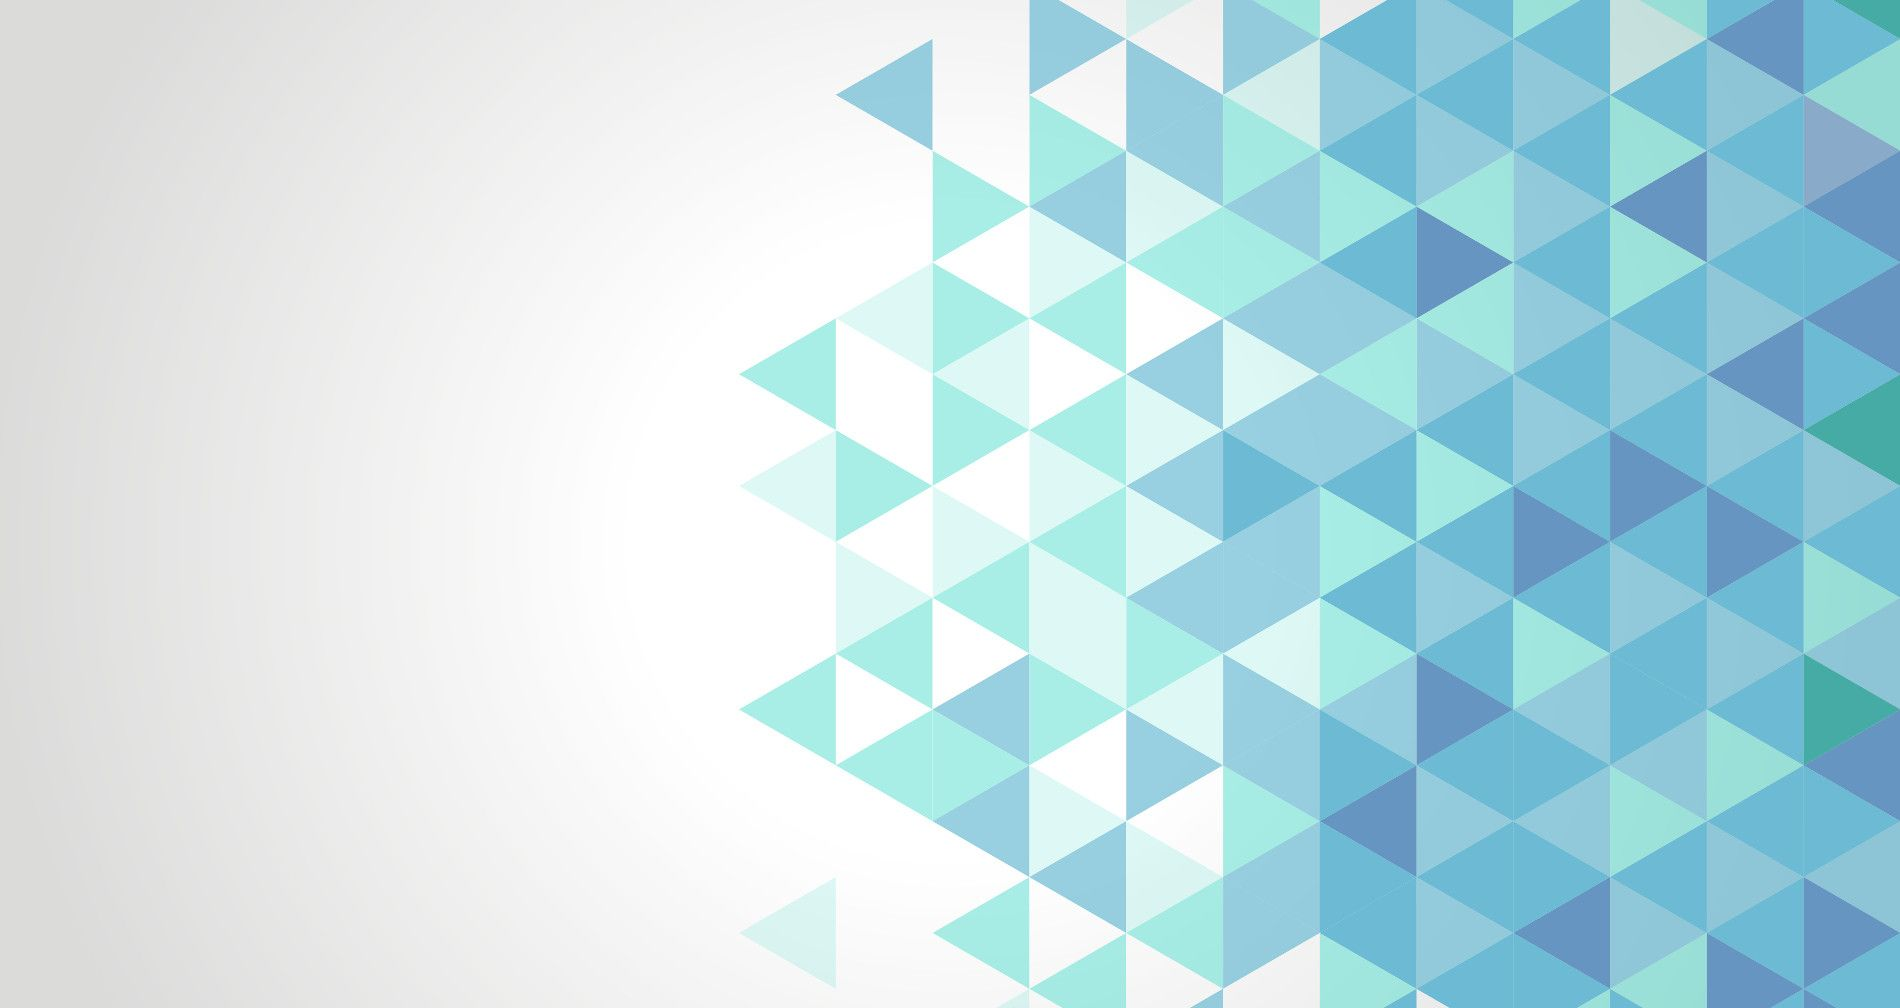
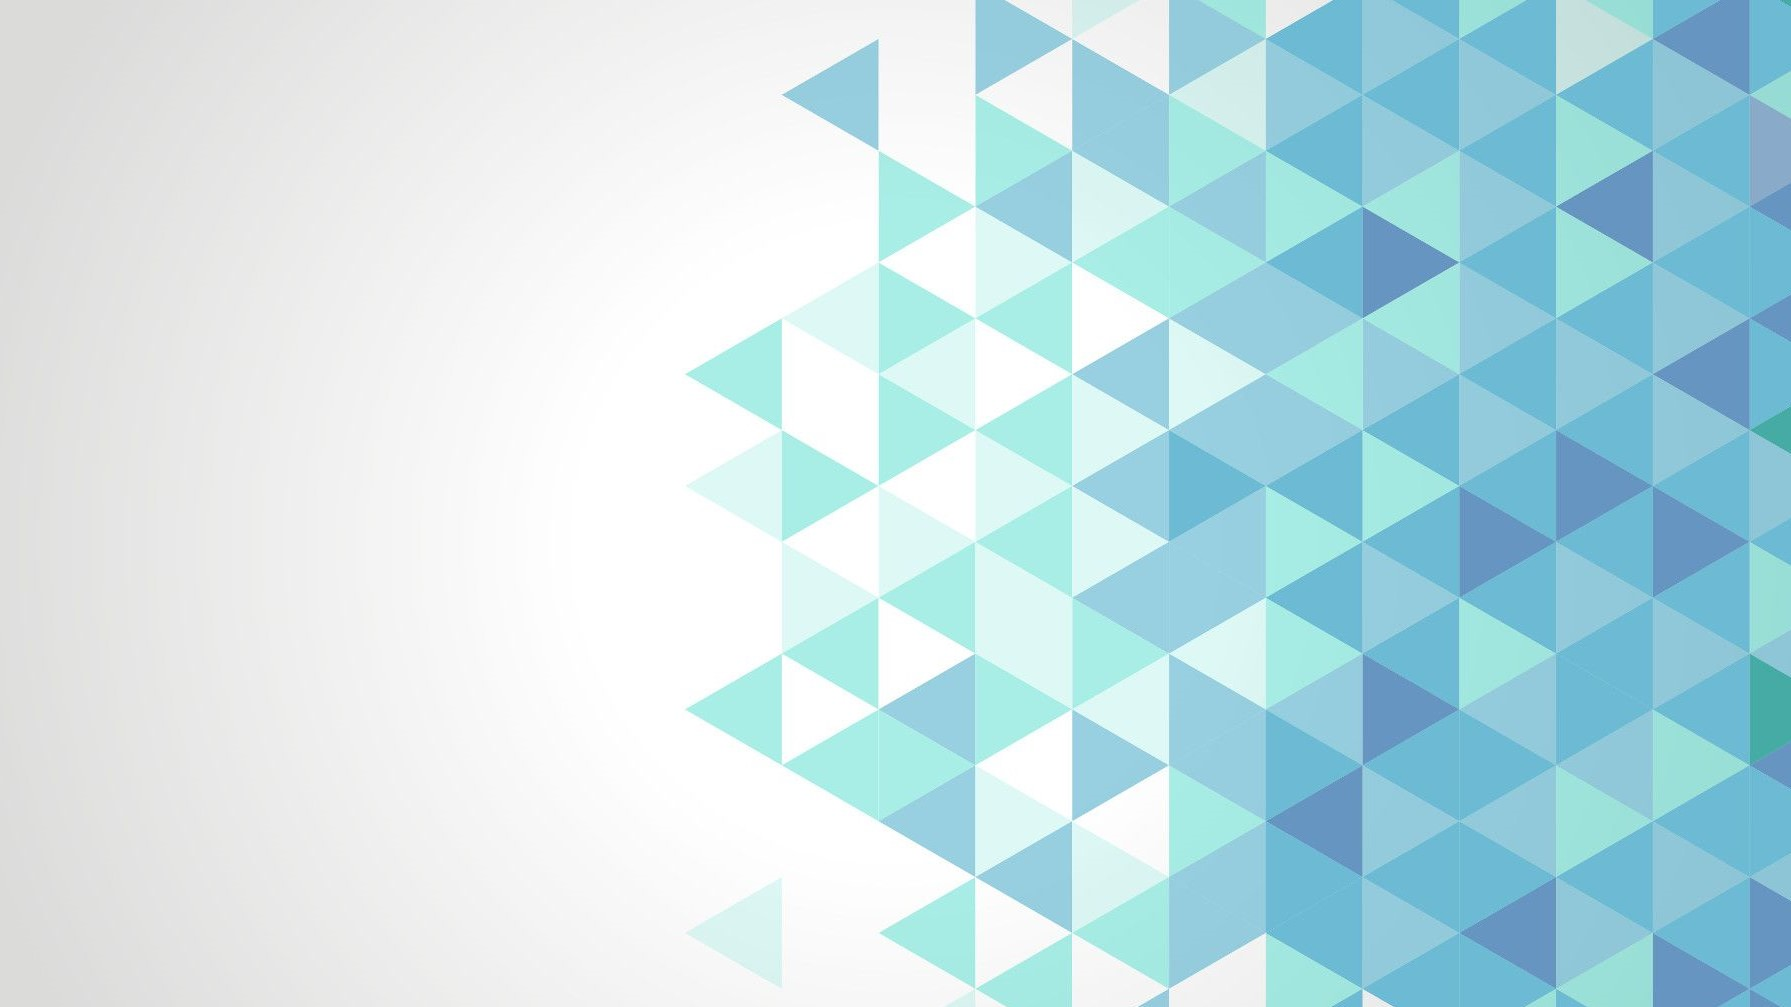
style

diff --git a/index.html b/index.html
@@ -1,28 +1,33 @@
 <!DOCTYPE html>
 <html>
 <head>
-    <meta charset="utf-8" />
-    <title>Action Sports Gif's</title>
-    <meta name="viewport" content="width=device-width, initial-scale=1">
+    <meta charset="UTF-8">
+    <meta name="viewport" content="width=device-width, initial-scale=1.0">
+    <meta http-equiv="X-UA-Compatible" content="ie=edge">
+    <link rel="stylesheet" type="text/css" href="assets/css/reset.css">
     <link rel="stylesheet" href="https://maxcdn.bootstrapcdn.com/bootstrap/3.3.7/css/bootstrap.min.css" integrity="sha384-BVYiiSIFeK1dGmJRAkycuHAHRg32OmUcww7on3RYdg4Va+PmSTsz/K68vbdEjh4u" crossorigin="anonymous">
     <link rel="stylesheet" href="https://maxcdn.bootstrapcdn.com/bootstrap/3.3.7/css/bootstrap-theme.min.css" integrity="sha384-rHyoN1iRsVXV4nD0JutlnGaslCJuC7uwjduW9SVrLvRYooPp2bWYgmgJQIXwl/Sp" crossorigin="anonymous">
-    <link rel="stylesheet" type="text/css" media="screen" href="assets/css/style.css" />
+    <link rel="stylesheet" type="text/css" href="assets/css/style.css">
+    <script src="https://ajax.googleapis.com/ajax/libs/jquery/3.2.1/jquery.min.js"></script>
+    <script src="https://maxcdn.bootstrapcdn.com/bootstrap/3.3.7/js/bootstrap.min.js" integrity="sha384-Tc5IQib027qvyjSMfHjOMaLkfuWVxZxUPnCJA7l2mCWNIpG9mGCD8wGNIcPD7Txa" crossorigin="anonymous"></script>
 </head>
 <body img src="assets/images/backgroundimg.jpg">
-    <div id ="buttons">
+    <div id="game">
+        <div id ="buttons">
 
-    </div>
+        </div> 
 
-    <form id="asp-form">
+        <form id="asp-form">
         <label for="asp-input">Add your own Action Sports Gif.</label>
         <input type="text" id="asp-input">
 
         <button class="answer-button btn btn-info btn-lg" id="addAspGif" type="submit" value="Submit">Add Gif</button>
-    </form>
+        </form>
 
 
-    <div id ="actionSports">
+        <div id ="actionSports">
         </div>
+    </div>
 
 <script src="https://code.jquery.com/jquery-3.3.1.min.js" integrity="sha256-FgpCb/KJQlLNfOu91ta32o/NMZxltwRo8QtmkMRdAu8=" crossorigin="anonymous"></script> 
 <script src="assets/javascript/app.js"></script>

diff --git a/assets/css/reset.css b/assets/css/reset.css
@@ -1,0 +1,48 @@
+/* http://meyerweb.com/eric/tools/css/reset/ 
+   v2.0 | 20110126
+   License: none (public domain)
+*/
+
+html, body, div, span, applet, object, iframe,
+h1, h2, h3, h4, h5, h6, p, blockquote, pre,
+a, abbr, acronym, address, big, cite, code,
+del, dfn, em, img, ins, kbd, q, s, samp,
+small, strike, strong, sub, sup, tt, var,
+b, u, i, center,
+dl, dt, dd, ol, ul, li,
+fieldset, form, label, legend,
+table, caption, tbody, tfoot, thead, tr, th, td,
+article, aside, canvas, details, embed, 
+figure, figcaption, footer, header, hgroup, 
+menu, nav, output, ruby, section, summary,
+time, mark, audio, video {
+	margin: 0;
+	padding: 0;
+	border: 0;
+	font-size: 100%;
+	font: inherit;
+	vertical-align: baseline;
+}
+/* HTML5 display-role reset for older browsers */
+article, aside, details, figcaption, figure, 
+footer, header, hgroup, menu, nav, section {
+	display: block;
+}
+body {
+	line-height: 1;
+}
+ol, ul {
+	list-style: none;
+}
+blockquote, q {
+	quotes: none;
+}
+blockquote:before, blockquote:after,
+q:before, q:after {
+	content: '';
+	content: none;
+}
+table {
+	border-collapse: collapse;
+	border-spacing: 0;
+}

diff --git a/assets/css/style.css b/assets/css/style.css
@@ -1,3 +1,11 @@
 body{
-        background-image: url ("assets/images/backgroundimg.jpg") ;
+    height: 100%;
+    width: auto;
+    background-image: url("../images/backgroundimg.jpg") ;
+    background-position: center;
+    background-repeat:no-repeat;
+    background-size: cover;  
+}
+#game{
+    background:transparent;
 }
